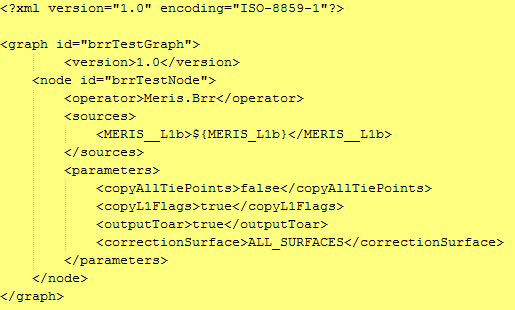
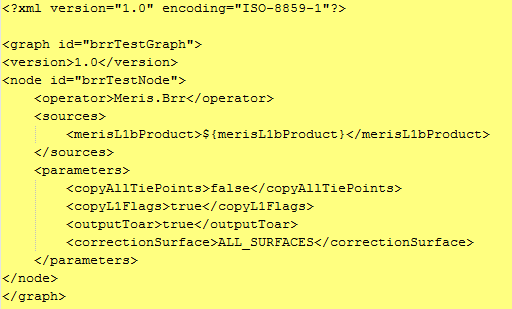
minor fix in help doc

Changed region(s): [[0.0, 0.1165, 0.9688, 0.9903], [0.0, 0.0, 0.6875, 0.0583]]

diff --git a/beam-meris-sdr/src/main/resources/doc/help/brrprocessing/BrrProcessorDescription.html b/beam-meris-sdr/src/main/resources/doc/help/brrprocessing/BrrProcessorDescription.html
@@ -258,7 +258,7 @@ For example, a MERIS BRR computation could be started with
 <div class="itemizedlist">
     <ul type="bullet">
         <li style="list-style-type: disc">
-            ${BEAM-INSTALL-DIR}/bin/gpt test_BRR.xml -SMERIS_L1b=./MER_BRR_test.dim
+            ${BEAM-INSTALL-DIR}/bin/gpt test_BRR.xml -SmerisL1bProduct=./MER_BRR_test.dim
 
         </li>
     </ul>
